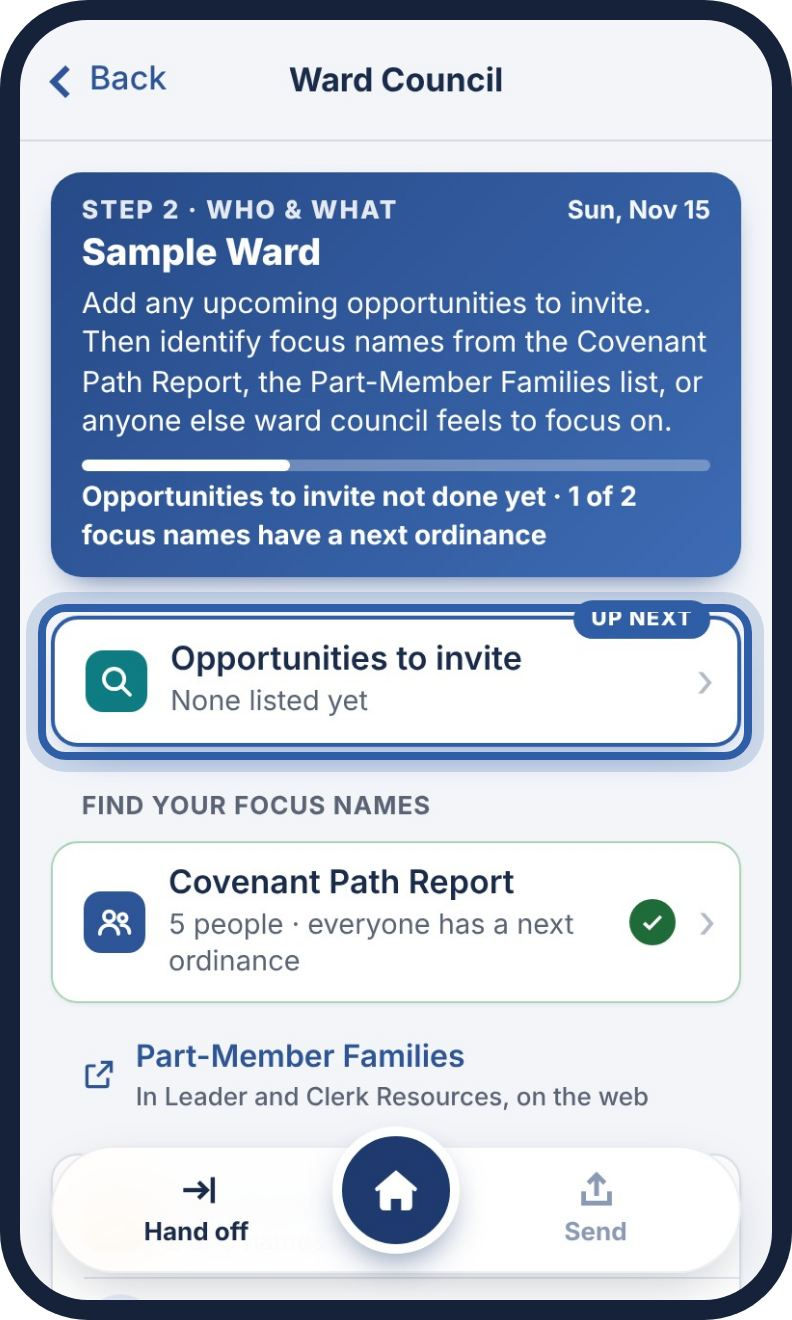
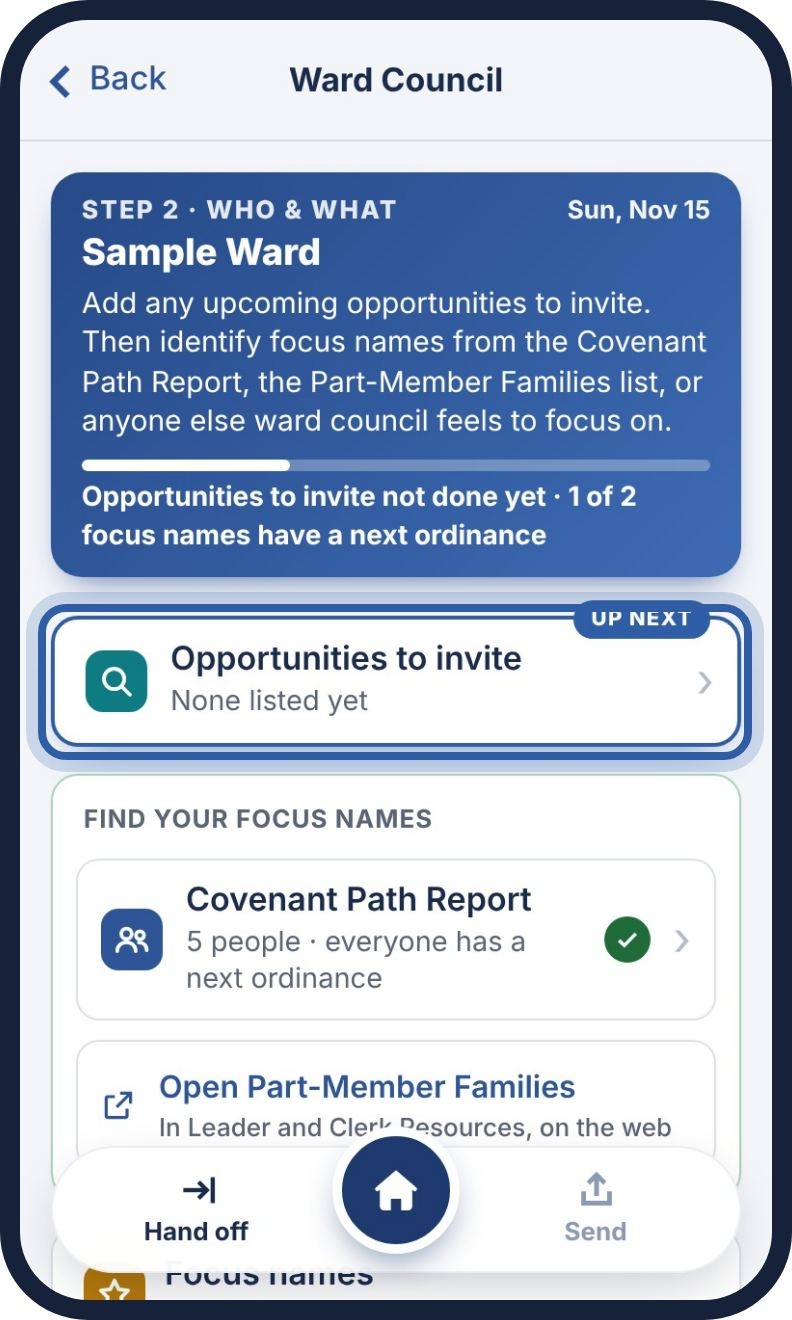
Ward Council: one Find your focus names box holding the Covenant Path Report and an Open Part-Member Families button
Claude-Session: https://claude.ai/code/session_01PW98YcMvh8WynmxGN9Y5LD

diff --git a/index.html b/index.html
@@ -206,12 +206,15 @@
     <!-- Ward Council's parts, in order, each its own card: the next one is marked Up next, a finished one gets a green check -->
     <div class="wc-cards" id="wc-rows" hidden>
       <ul class="steps-list wc-step" id="wc-step-fn"></ul>
-      <p class="wc-group-k" id="wc-find-k">Find your focus names</p>
-      <ul class="steps-list wc-step" id="wc-step-cp"></ul>
-      <a class="wc-pmf" id="wc-pmf" href="https://lcr.churchofjesuschrist.org/mlt/report/part-member-households?lang=eng" target="_blank" rel="noopener noreferrer">
-        <svg width="18" height="18" viewBox="0 0 20 20" fill="none" stroke="currentColor" stroke-width="1.8" aria-hidden="true"><path d="M11 3h6v6"/><path d="M17 3l-8 8"/><path d="M15 12v4a1 1 0 0 1-1 1H4a1 1 0 0 1-1-1V6a1 1 0 0 1 1-1h4"/></svg>
-        <span class="wc-pmf-text">Part-Member Families<span class="wc-pmf-sub">In Leader and Clerk Resources, on the web</span></span>
-      </a>
+      <!-- The two lists focus names come from, in one box under its heading (the user asked, Nov 19, 2026) -->
+      <section class="wc-step wc-find" id="wc-find" aria-labelledby="wc-find-k">
+        <p class="wc-group-k" id="wc-find-k">Find your focus names</p>
+        <ul class="steps-list" id="wc-step-cp"></ul>
+        <a class="wc-pmf" id="wc-pmf" href="https://lcr.churchofjesuschrist.org/mlt/report/part-member-households?lang=eng" target="_blank" rel="noopener noreferrer">
+          <svg width="18" height="18" viewBox="0 0 20 20" fill="none" stroke="currentColor" stroke-width="1.8" aria-hidden="true"><path d="M11 3h6v6"/><path d="M17 3l-8 8"/><path d="M15 12v4a1 1 0 0 1-1 1H4a1 1 0 0 1-1-1V6a1 1 0 0 1 1-1h4"/></svg>
+          <span class="wc-pmf-text">Open Part-Member Families<span class="wc-pmf-sub">In Leader and Clerk Resources, on the web</span></span>
+        </a>
+      </section>
       <section class="wc-step wc-focus" id="wc-step-tn" aria-label="Focus names"></section>
     </div>
     <div class="stack" id="wc-list"></div>
@@ -649,7 +652,7 @@
         <ul class="help-body">
           <li>Tap <strong>Home</strong>, then <strong>Ward council</strong>. Work down the cards; the next one says <strong>Up next</strong>.</li>
           <li><strong>Opportunities to invite:</strong> tap <strong>Add an event</strong> and set its <strong>Event date</strong>, or tap <strong>No upcoming events</strong>.</li>
-          <li>Find focus names in the <strong>Covenant Path Report</strong> or <strong>Part-Member Families</strong>. Tap <strong>Make focus name</strong> on a name, or <strong>Add a focus name</strong>.</li>
+          <li>In <strong>Find your focus names</strong>, look in the <strong>Covenant Path Report</strong> or <strong>Open Part-Member Families</strong>. Tap <strong>Make focus name</strong> on a name, or <strong>Add a focus name</strong>.</li>
           <li>Tap a focus name and choose its next ordinance. Swipe a focus name left to remove it.</li>
           <li>For ideas, tap <strong>How can we help?</strong> It all shows in the Huddle.</li>
         </ul>

diff --git a/try/index.html b/try/index.html
@@ -206,12 +206,15 @@
     <!-- Ward Council's parts, in order, each its own card: the next one is marked Up next, a finished one gets a green check -->
     <div class="wc-cards" id="wc-rows" hidden>
       <ul class="steps-list wc-step" id="wc-step-fn"></ul>
-      <p class="wc-group-k" id="wc-find-k">Find your focus names</p>
-      <ul class="steps-list wc-step" id="wc-step-cp"></ul>
-      <a class="wc-pmf" id="wc-pmf" href="https://lcr.churchofjesuschrist.org/mlt/report/part-member-households?lang=eng" target="_blank" rel="noopener noreferrer">
-        <svg width="18" height="18" viewBox="0 0 20 20" fill="none" stroke="currentColor" stroke-width="1.8" aria-hidden="true"><path d="M11 3h6v6"/><path d="M17 3l-8 8"/><path d="M15 12v4a1 1 0 0 1-1 1H4a1 1 0 0 1-1-1V6a1 1 0 0 1 1-1h4"/></svg>
-        <span class="wc-pmf-text">Part-Member Families<span class="wc-pmf-sub">In Leader and Clerk Resources, on the web</span></span>
-      </a>
+      <!-- The two lists focus names come from, in one box under its heading (the user asked, Nov 19, 2026) -->
+      <section class="wc-step wc-find" id="wc-find" aria-labelledby="wc-find-k">
+        <p class="wc-group-k" id="wc-find-k">Find your focus names</p>
+        <ul class="steps-list" id="wc-step-cp"></ul>
+        <a class="wc-pmf" id="wc-pmf" href="https://lcr.churchofjesuschrist.org/mlt/report/part-member-households?lang=eng" target="_blank" rel="noopener noreferrer">
+          <svg width="18" height="18" viewBox="0 0 20 20" fill="none" stroke="currentColor" stroke-width="1.8" aria-hidden="true"><path d="M11 3h6v6"/><path d="M17 3l-8 8"/><path d="M15 12v4a1 1 0 0 1-1 1H4a1 1 0 0 1-1-1V6a1 1 0 0 1 1-1h4"/></svg>
+          <span class="wc-pmf-text">Open Part-Member Families<span class="wc-pmf-sub">In Leader and Clerk Resources, on the web</span></span>
+        </a>
+      </section>
       <section class="wc-step wc-focus" id="wc-step-tn" aria-label="Focus names"></section>
     </div>
     <div class="stack" id="wc-list"></div>
@@ -649,7 +652,7 @@
         <ul class="help-body">
           <li>Tap <strong>Home</strong>, then <strong>Ward council</strong>. Work down the cards; the next one says <strong>Up next</strong>.</li>
           <li><strong>Opportunities to invite:</strong> tap <strong>Add an event</strong> and set its <strong>Event date</strong>, or tap <strong>No upcoming events</strong>.</li>
-          <li>Find focus names in the <strong>Covenant Path Report</strong> or <strong>Part-Member Families</strong>. Tap <strong>Make focus name</strong> on a name, or <strong>Add a focus name</strong>.</li>
+          <li>In <strong>Find your focus names</strong>, look in the <strong>Covenant Path Report</strong> or <strong>Open Part-Member Families</strong>. Tap <strong>Make focus name</strong> on a name, or <strong>Add a focus name</strong>.</li>
           <li>Tap a focus name and choose its next ordinance. Swipe a focus name left to remove it.</li>
           <li>For ideas, tap <strong>How can we help?</strong> It all shows in the Huddle.</li>
         </ul>

diff --git a/test/twodoor.js b/test/twodoor.js
@@ -152,8 +152,8 @@ const OUT = 'test/out-twodoor'; fs.mkdirSync(OUT, { recursive: true });
     const rowText = async id => (await p.textContent(`[data-action="open-wc-list"][data-a="${id}"]`)).replace(/\s+/g, ' ');
     const tnText = async () => (await p.textContent('#wc-step-tn')).replace(/\s+/g, ' ');
     ok(await p.locator('#wc-rows .wc-row').count() === 2 && (await rowText('cp')).includes('Covenant Path Report') && (await rowText('fn')).includes('Opportunities to invite') && (await tnText()).includes('Focus names') && !(await vis('[data-action="open-wc-list"][data-a="tn"]')) && !(await vis('[data-action="open-wc-list"][data-a="mr"]')) && await p.locator('#wc-list .person-row, #wc-list .wc-card').count() === 0, tag + ': Ward Council shows Opportunities to invite, the Covenant Path Report and the focus names card (no Missionary Referrals, no Focus names list)');
-    ok(await p.evaluate(() => { const ids = Array.from(document.querySelectorAll('#wc-rows > *')).map(e => e.id); return ids.join('|') === 'wc-step-fn|wc-find-k|wc-step-cp|wc-pmf|wc-step-tn'; }) && /Find your focus names/i.test(await p.textContent('#wc-find-k')), tag + ': in order: Opportunities to invite, then Find your focus names over the Covenant Path Report and Part-Member Families, then Focus names');
-    ok(!(await p.$('#wc-note')) && await p.locator('#wc-view .help-warning').count() === 0 && await p.evaluate(() => !document.querySelector('#wc-pmf').classList.contains('btn-tools')), tag + ': no confidential line; Part-Member Families is a plain link row');
+    ok(await p.evaluate(() => { const ids = Array.from(document.querySelectorAll('#wc-rows > *')).map(e => e.id), box = Array.from(document.querySelectorAll('#wc-find > *')).map(e => e.id).filter(Boolean); return ids.join('|') === 'wc-step-fn|wc-find|wc-step-tn' && box.join('|') === 'wc-find-k|wc-step-cp|wc-pmf'; }) && /Find your focus names/i.test(await p.textContent('#wc-find-k')), tag + ': in order: Opportunities to invite, then one Find your focus names box holding the Covenant Path Report and Part-Member Families, then Focus names');
+    ok(!(await p.$('#wc-note')) && await p.locator('#wc-view .help-warning').count() === 0 && await p.evaluate(() => !!document.querySelector('#wc-find #wc-pmf')), tag + ': no confidential line on Ward Council');
     ok(await p.evaluate(() => document.querySelector('#wc-step-cp').classList.contains('steps-list') && document.querySelector('#steps-this').classList.contains('steps-list')), tag + ': ward council’s rows and the huddle’s rows are the same kind of list');
     ok((await rowText('cp')).includes('1 person · 1 needs a next ordinance') && (await tnText()).includes('Choose up to three from the lists above.'), tag + ': each card has a status: ' + await rowText('cp'));
     ok(await p.evaluate(() => document.querySelector('#wc-step-fn').classList.contains('is-next') && !!document.querySelector('#wc-step-fn .wc-up-next')), tag + ': Opportunities to invite is Up next');

diff --git a/test/pmf.js b/test/pmf.js
@@ -1,5 +1,5 @@
-// Ward council shows Part-Member Families under Find your focus names, as a plain link row beside the Covenant Path
-// Report card: the web report, opened outside the app, on Ward Council's own screen only, never wider than a small iPhone.
+// Ward council shows Open Part-Member Families as a button in the Find your focus names box, under the Covenant Path
+// Report: the web report, opened outside the app, on Ward Council's own screen only, never wider than a small iPhone.
 const { chromium } = require('playwright');
 const BASE = 'http://127.0.0.1:8765/';
 const URL = 'https://lcr.churchofjesuschrist.org/mlt/report/part-member-households?lang=eng';
@@ -17,9 +17,9 @@ const ok = (c, m) => { if (c) { passed++; console.log('PASS ' + m); } else { fai
   ok(await link.isVisible(), 'shows on Ward council');
   ok(await link.getAttribute('href') === URL, 'opens the Part-Member Families report');
   ok(await link.getAttribute('target') === '_blank' && /noopener/.test(await link.getAttribute('rel')), 'opens outside the app');
-  ok(/Part-Member Families/.test(await link.innerText()) && await link.evaluate(e => !e.classList.contains('btn-tools')), 'says Part-Member Families, as a plain row (less prominent than the cards)');
-  const cpB = await p.locator('#wc-step-cp').boundingBox(), tnB = await p.locator('#wc-step-tn').boundingBox(), lb = await link.boundingBox();
-  ok(lb.y >= cpB.y + cpB.height - 1 && lb.y + lb.height <= tnB.y + 1 && /Find your focus names/i.test(await p.textContent('#wc-find-k')), 'sits under Find your focus names, between the Covenant Path Report and Focus names');
+  ok(/Open Part-Member Families/.test(await link.innerText()), 'says Open Part-Member Families');
+  const cpB = await p.locator('#wc-step-cp').boundingBox(), boxB = await p.locator('#wc-find').boundingBox(), lb = await link.boundingBox();
+  ok(await link.evaluate(e => !!e.closest('#wc-find')) && lb.y >= cpB.y + cpB.height - 1 && lb.y + lb.height <= boxB.y + boxB.height + 1 && /Find your focus names/i.test(await p.textContent('#wc-find-k')), 'a button in the Find your focus names box, under the Covenant Path Report');
   ok(await p.evaluate(() => document.documentElement.scrollWidth) <= 320, 'fits a 320 px screen');
   await p.locator('[data-action="open-wc-list"][data-a="cp"]').click(); await p.waitForTimeout(400);
   ok(!(await link.isVisible()), 'hidden on a list of names');

diff --git a/styles.css b/styles.css
@@ -1467,13 +1467,18 @@ body[data-view="start"] .title-text .title-sub { color: #FFFFFF; opacity: .88; }
 .wc-done-tick svg { width: 14px; height: 14px; }
 #wc-step-fn.is-done .step-status { color: #1F6B3A; font-weight: 600; }
 #wc-step-cp .step-status.warn { color: var(--muted); font-weight: 500; } /* the focus names carry the warning now */
-.wc-group-k { margin: 8px 16px -6px; font-size: 13px; font-weight: 700; letter-spacing: .04em; text-transform: uppercase; color: var(--muted); }
-/* Part-Member Families: the second list to look in, so a plain link row rather than a card */
-.wc-pmf { display: flex; align-items: center; gap: 10px; margin: -4px 0 0; padding: 6px 16px; color: var(--accent); text-decoration: none; font-size: 16px; font-weight: 600; }
+/* Find your focus names: one box holding the Covenant Path Report and the Part-Member Families button */
+.wc-find { background: var(--card); border: 1px solid var(--card-line); border-radius: 14px; box-shadow: 0 1px 2px rgba(27,43,75,.05);
+  padding: 12px 12px 14px; display: flex; flex-direction: column; gap: 10px; }
+.wc-group-k { margin: 2px 4px 0; font-size: 13px; font-weight: 700; letter-spacing: .04em; text-transform: uppercase; color: var(--muted); }
+.wc-find .steps-list { border-radius: 12px; box-shadow: none; }
+.wc-find .nav-row { padding-left: 12px; }
+.wc-pmf { display: flex; align-items: center; gap: 12px; padding: 12px 12px; border-radius: 12px; border: 1px solid var(--card-line);
+  background: var(--card); color: var(--accent); text-decoration: none; font-size: 16px; font-weight: 600; min-height: 56px; }
 .wc-pmf svg { flex: none; }
 .wc-pmf-text { display: flex; flex-direction: column; gap: 1px; }
 .wc-pmf-sub { font-size: 13px; font-weight: 500; color: var(--muted); }
-.wc-pmf:active { opacity: .6; }
+.wc-pmf:active { background: #E9EDF3; }
 .wc-focus { background: var(--card); border: 1px solid var(--card-line); border-radius: 14px; box-shadow: 0 1px 2px rgba(27,43,75,.05); --wc-ink: #B07A12; }
 .wc-focus.is-done { border: 2px solid #1F6B3A; box-shadow: 0 10px 22px -14px #1F6B3A; }
 .wc-focus-head { display: flex; align-items: center; gap: 10px; padding: 14px 12px 8px 16px; }

diff --git a/try/styles.css b/try/styles.css
@@ -1467,13 +1467,18 @@ body[data-view="start"] .title-text .title-sub { color: #FFFFFF; opacity: .88; }
 .wc-done-tick svg { width: 14px; height: 14px; }
 #wc-step-fn.is-done .step-status { color: #1F6B3A; font-weight: 600; }
 #wc-step-cp .step-status.warn { color: var(--muted); font-weight: 500; } /* the focus names carry the warning now */
-.wc-group-k { margin: 8px 16px -6px; font-size: 13px; font-weight: 700; letter-spacing: .04em; text-transform: uppercase; color: var(--muted); }
-/* Part-Member Families: the second list to look in, so a plain link row rather than a card */
-.wc-pmf { display: flex; align-items: center; gap: 10px; margin: -4px 0 0; padding: 6px 16px; color: var(--accent); text-decoration: none; font-size: 16px; font-weight: 600; }
+/* Find your focus names: one box holding the Covenant Path Report and the Part-Member Families button */
+.wc-find { background: var(--card); border: 1px solid var(--card-line); border-radius: 14px; box-shadow: 0 1px 2px rgba(27,43,75,.05);
+  padding: 12px 12px 14px; display: flex; flex-direction: column; gap: 10px; }
+.wc-group-k { margin: 2px 4px 0; font-size: 13px; font-weight: 700; letter-spacing: .04em; text-transform: uppercase; color: var(--muted); }
+.wc-find .steps-list { border-radius: 12px; box-shadow: none; }
+.wc-find .nav-row { padding-left: 12px; }
+.wc-pmf { display: flex; align-items: center; gap: 12px; padding: 12px 12px; border-radius: 12px; border: 1px solid var(--card-line);
+  background: var(--card); color: var(--accent); text-decoration: none; font-size: 16px; font-weight: 600; min-height: 56px; }
 .wc-pmf svg { flex: none; }
 .wc-pmf-text { display: flex; flex-direction: column; gap: 1px; }
 .wc-pmf-sub { font-size: 13px; font-weight: 500; color: var(--muted); }
-.wc-pmf:active { opacity: .6; }
+.wc-pmf:active { background: #E9EDF3; }
 .wc-focus { background: var(--card); border: 1px solid var(--card-line); border-radius: 14px; box-shadow: 0 1px 2px rgba(27,43,75,.05); --wc-ink: #B07A12; }
 .wc-focus.is-done { border: 2px solid #1F6B3A; box-shadow: 0 10px 22px -14px #1F6B3A; }
 .wc-focus-head { display: flex; align-items: center; gap: 10px; padding: 14px 12px 8px 16px; }

diff --git a/app.js b/app.js
@@ -2223,8 +2223,8 @@
     return { text: lead + ' · ' + (missing ? missing + (missing === 1 ? ' needs' : ' need') + ' a next ordinance' : 'everyone has a next ordinance'), warn: missing > 0 };
   }
   // A part of Ward Council as a card of its own: its tile, title and one status line, Up next or a green check.
-  function wcPartRow(l, parts) {
-    var st = wcStatus(l.id), done = parts.done[l.id], next = parts.next === l.id;
+  function wcPartRow(l, parts, inBox) {
+    var st = wcStatus(l.id), done = parts.done[l.id], next = parts.next === l.id && !inBox; // in a box, the box carries Up next
     return h('li', {}, [h('button', { type: 'button', class: 'nav-row wc-row' + (done ? ' is-done' : '') + (next ? ' is-next' : ''), 'data-action': 'open-wc-list', 'data-a': l.id,
       'aria-label': l.title + '. ' + st.text + (done ? '. Done' : next ? '. Up next' : '') }, [
       tile(l.id),
@@ -2241,8 +2241,12 @@
     var parts = wcParts();
     WC_LISTS.forEach(function (l) {
       var ul = $('#wc-step-' + l.id); if (!ul) return;
-      ul.classList.toggle('is-next', parts.next === l.id); ul.classList.toggle('is-done', !!parts.done[l.id]);
-      ul.replaceChildren(wcPartRow(l, parts));
+      // The Covenant Path Report sits in the Find your focus names box with Part-Member Families: the box is the card.
+      var card = l.id === 'cp' ? $('#wc-find') || ul : ul;
+      card.classList.toggle('is-next', parts.next === l.id); card.classList.toggle('is-done', !!parts.done[l.id]);
+      var old = card.querySelector(':scope > .wc-up-next'); if (old && card !== ul) old.remove();
+      if (card !== ul && parts.next === l.id) card.insertBefore(h('span', { class: 'up-next wc-up-next', 'aria-hidden': 'true', text: 'Up next' }), card.firstChild);
+      ul.replaceChildren(wcPartRow(l, parts, card !== ul));
     });
     // The focus names, right on the screen: tap one to open it, swipe left to take it off.
     var sec = $('#wc-step-tn'); if (!sec) return;

diff --git a/try/app.js b/try/app.js
@@ -2223,8 +2223,8 @@
     return { text: lead + ' · ' + (missing ? missing + (missing === 1 ? ' needs' : ' need') + ' a next ordinance' : 'everyone has a next ordinance'), warn: missing > 0 };
   }
   // A part of Ward Council as a card of its own: its tile, title and one status line, Up next or a green check.
-  function wcPartRow(l, parts) {
-    var st = wcStatus(l.id), done = parts.done[l.id], next = parts.next === l.id;
+  function wcPartRow(l, parts, inBox) {
+    var st = wcStatus(l.id), done = parts.done[l.id], next = parts.next === l.id && !inBox; // in a box, the box carries Up next
     return h('li', {}, [h('button', { type: 'button', class: 'nav-row wc-row' + (done ? ' is-done' : '') + (next ? ' is-next' : ''), 'data-action': 'open-wc-list', 'data-a': l.id,
       'aria-label': l.title + '. ' + st.text + (done ? '. Done' : next ? '. Up next' : '') }, [
       tile(l.id),
@@ -2241,8 +2241,12 @@
     var parts = wcParts();
     WC_LISTS.forEach(function (l) {
       var ul = $('#wc-step-' + l.id); if (!ul) return;
-      ul.classList.toggle('is-next', parts.next === l.id); ul.classList.toggle('is-done', !!parts.done[l.id]);
-      ul.replaceChildren(wcPartRow(l, parts));
+      // The Covenant Path Report sits in the Find your focus names box with Part-Member Families: the box is the card.
+      var card = l.id === 'cp' ? $('#wc-find') || ul : ul;
+      card.classList.toggle('is-next', parts.next === l.id); card.classList.toggle('is-done', !!parts.done[l.id]);
+      var old = card.querySelector(':scope > .wc-up-next'); if (old && card !== ul) old.remove();
+      if (card !== ul && parts.next === l.id) card.insertBefore(h('span', { class: 'up-next wc-up-next', 'aria-hidden': 'true', text: 'Up next' }), card.firstChild);
+      ul.replaceChildren(wcPartRow(l, parts, card !== ul));
     });
     // The focus names, right on the screen: tap one to open it, swipe left to take it off.
     var sec = $('#wc-step-tn'); if (!sec) return;

diff --git a/test/wccards.js b/test/wccards.js
@@ -1,5 +1,5 @@
-// Ward Council's screen as cards, in order (Nov 19, 2026): Opportunities to invite, then Find your focus names (the
-// Covenant Path Report card and a plain Part-Member Families row), then the focus names right on the screen. The next
+// Ward Council's screen as cards, in order (Nov 19, 2026): Opportunities to invite, then the Find your focus names box
+// (the Covenant Path Report and an Open Part-Member Families button), then the focus names right on the screen. The next
 // card says Up next; a finished one gets a green check, and the focus names card turns green once every focus name has
 // a next ordinance. No upcoming events finishes Opportunities to invite, and Ward Council's check waits for it.
 // The opportunity's date is labeled Event date, and the Huddle puts Opportunities to invite before Focus names.
@@ -19,7 +19,7 @@ const ok = (c, m) => { if (c) { passed++; console.log('PASS ' + m); } else { fai
   const fits = () => p.evaluate(() => document.documentElement.scrollWidth <= innerWidth);
   await p.goto(BASE); await w(900); await p.click('[data-action="dismiss-install"]').catch(() => {});
   await p.click('.door-wc'); await w(500);
-  ok(await nextId() === 'wc-step-fn' && await doneIds() === 'wc-step-cp', 'Opportunities to invite is Up next; the Covenant Path Report has its check once focus names are chosen');
+  ok(await nextId() === 'wc-step-fn' && await doneIds() === 'wc-find', 'Opportunities to invite is Up next; the Covenant Path Report has its check once focus names are chosen');
   ok(/Opportunities to invite not done yet/.test(await p.textContent('#wc-hero .hero-count')), 'the header card says Opportunities to invite isn’t done yet');
   ok(await fits(), 'Ward Council fits a 320 px screen');
   // Opportunities to invite: what counts as an event, Add an event, No upcoming events

diff --git a/try/sw.js b/try/sw.js
@@ -1,5 +1,5 @@
 /* Offline support: caches the page's own files only. It never stores form data. */
-var CACHE = 'huddle-test-v22';
+var CACHE = 'huddle-test-v23';
 var FILES = [
   './',
   'index.html',
@@ -25,7 +25,7 @@ self.addEventListener('install', function (e) {
 self.addEventListener('activate', function (e) {
   e.waitUntil(caches.keys().then(function (keys) {
     // Only the test copy's own old caches: the live app keeps its own (huddle-v…).
-    return Promise.all(keys.filter(function (k) { return k !== CACHE && /^huddle-test-v22\d+$/.test(k); }).map(function (k) { return caches.delete(k); }));
+    return Promise.all(keys.filter(function (k) { return k !== CACHE && /^huddle-test-v23\d+$/.test(k); }).map(function (k) { return caches.delete(k); }));
   }).then(function () { return self.clients.claim(); }));
 });
 

diff --git a/dark.css b/dark.css
@@ -251,6 +251,8 @@
 :where(:root.theme-dark) .wc-up-next { color: #FFFFFF; }
 :where(:root.theme-dark) .wc-done-tick { background: #1F6B3A; color: #FFFFFF; }
 :where(:root.theme-dark) #wc-step-fn.is-done .step-status { color: #B0DEC1; }
+:where(:root.theme-dark) .wc-find { box-shadow: 0 1px 2px rgba(119, 142, 187, .05); }
+:where(:root.theme-dark) .wc-pmf:active { background: #202630; }
 :where(:root.theme-dark) .wc-focus { box-shadow: 0 1px 2px rgba(119, 142, 187, .05); --wc-ink: #E3C68C; }
 :where(:root.theme-dark) .wc-focus.is-done { border: 2px solid #59B57A; box-shadow: 0 10px 22px -14px #59B57A; }
 :where(:root.theme-dark) .wc-focus .steps-list > li:first-child::before { background: #242932; }

diff --git a/try/dark.css b/try/dark.css
@@ -251,6 +251,8 @@
 :where(:root.theme-dark) .wc-up-next { color: #FFFFFF; }
 :where(:root.theme-dark) .wc-done-tick { background: #1F6B3A; color: #FFFFFF; }
 :where(:root.theme-dark) #wc-step-fn.is-done .step-status { color: #B0DEC1; }
+:where(:root.theme-dark) .wc-find { box-shadow: 0 1px 2px rgba(119, 142, 187, .05); }
+:where(:root.theme-dark) .wc-pmf:active { background: #202630; }
 :where(:root.theme-dark) .wc-focus { box-shadow: 0 1px 2px rgba(119, 142, 187, .05); --wc-ink: #E3C68C; }
 :where(:root.theme-dark) .wc-focus.is-done { border: 2px solid #59B57A; box-shadow: 0 10px 22px -14px #59B57A; }
 :where(:root.theme-dark) .wc-focus .steps-list > li:first-child::before { background: #242932; }
